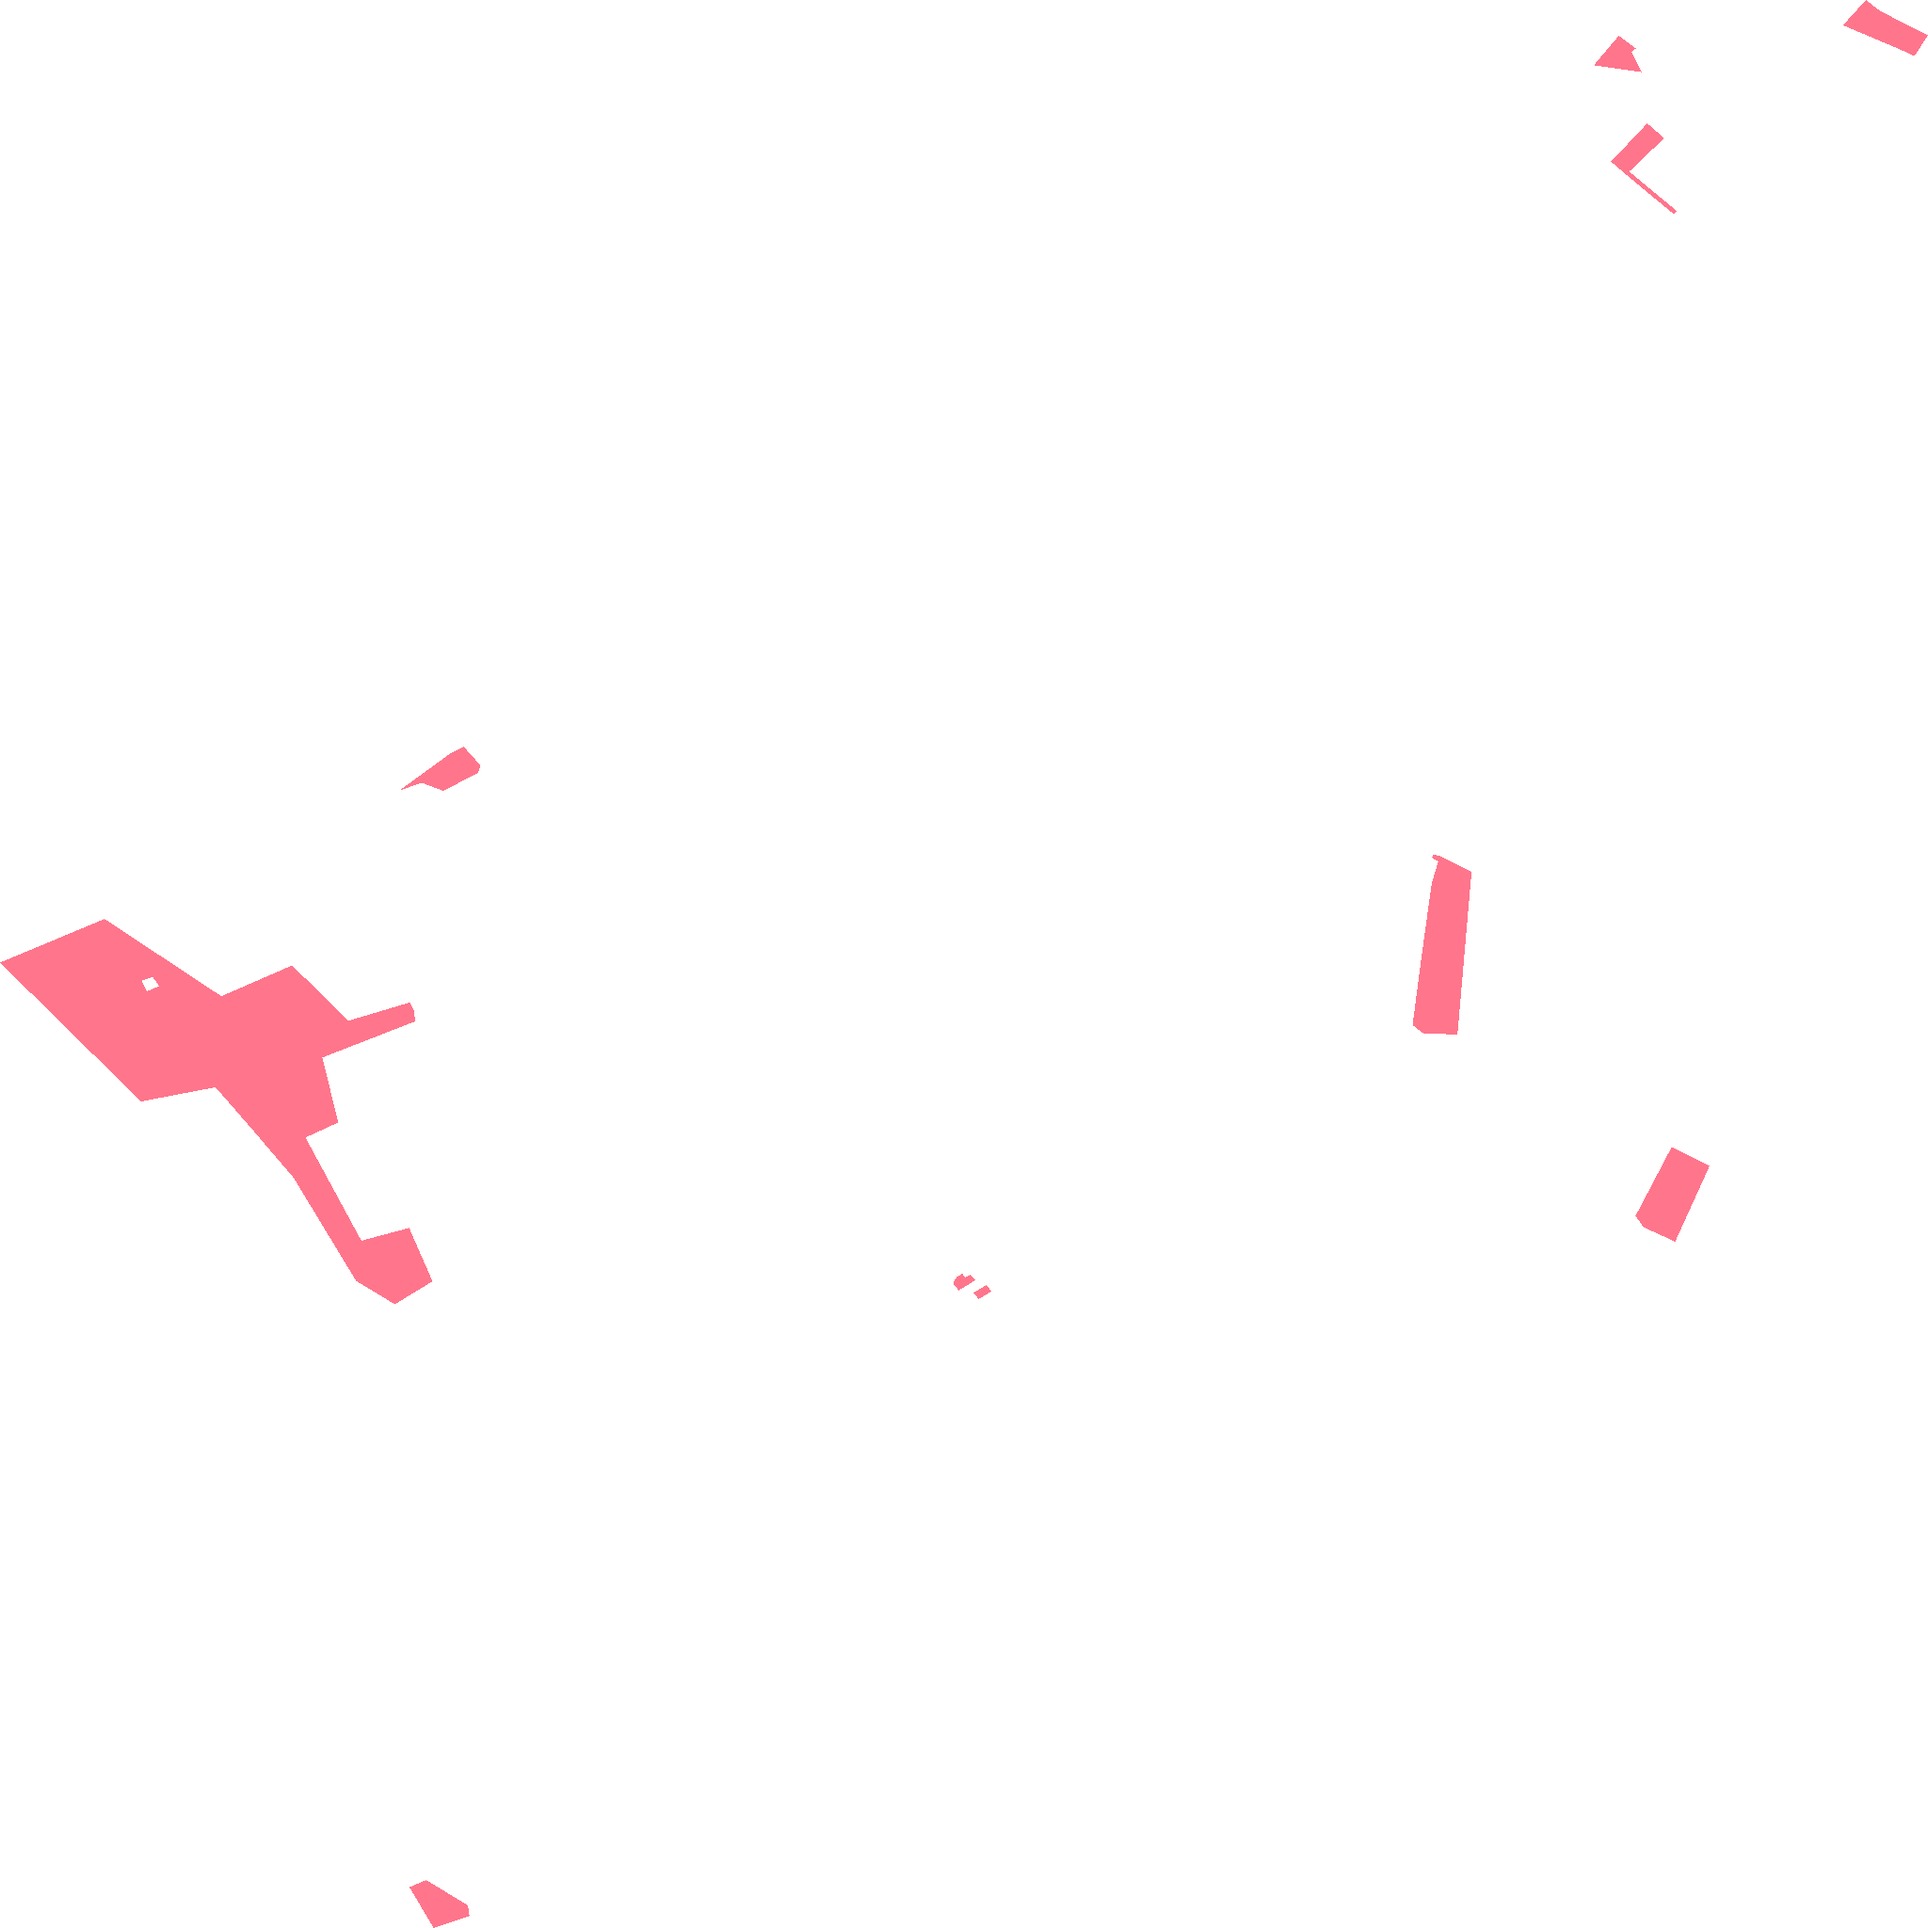
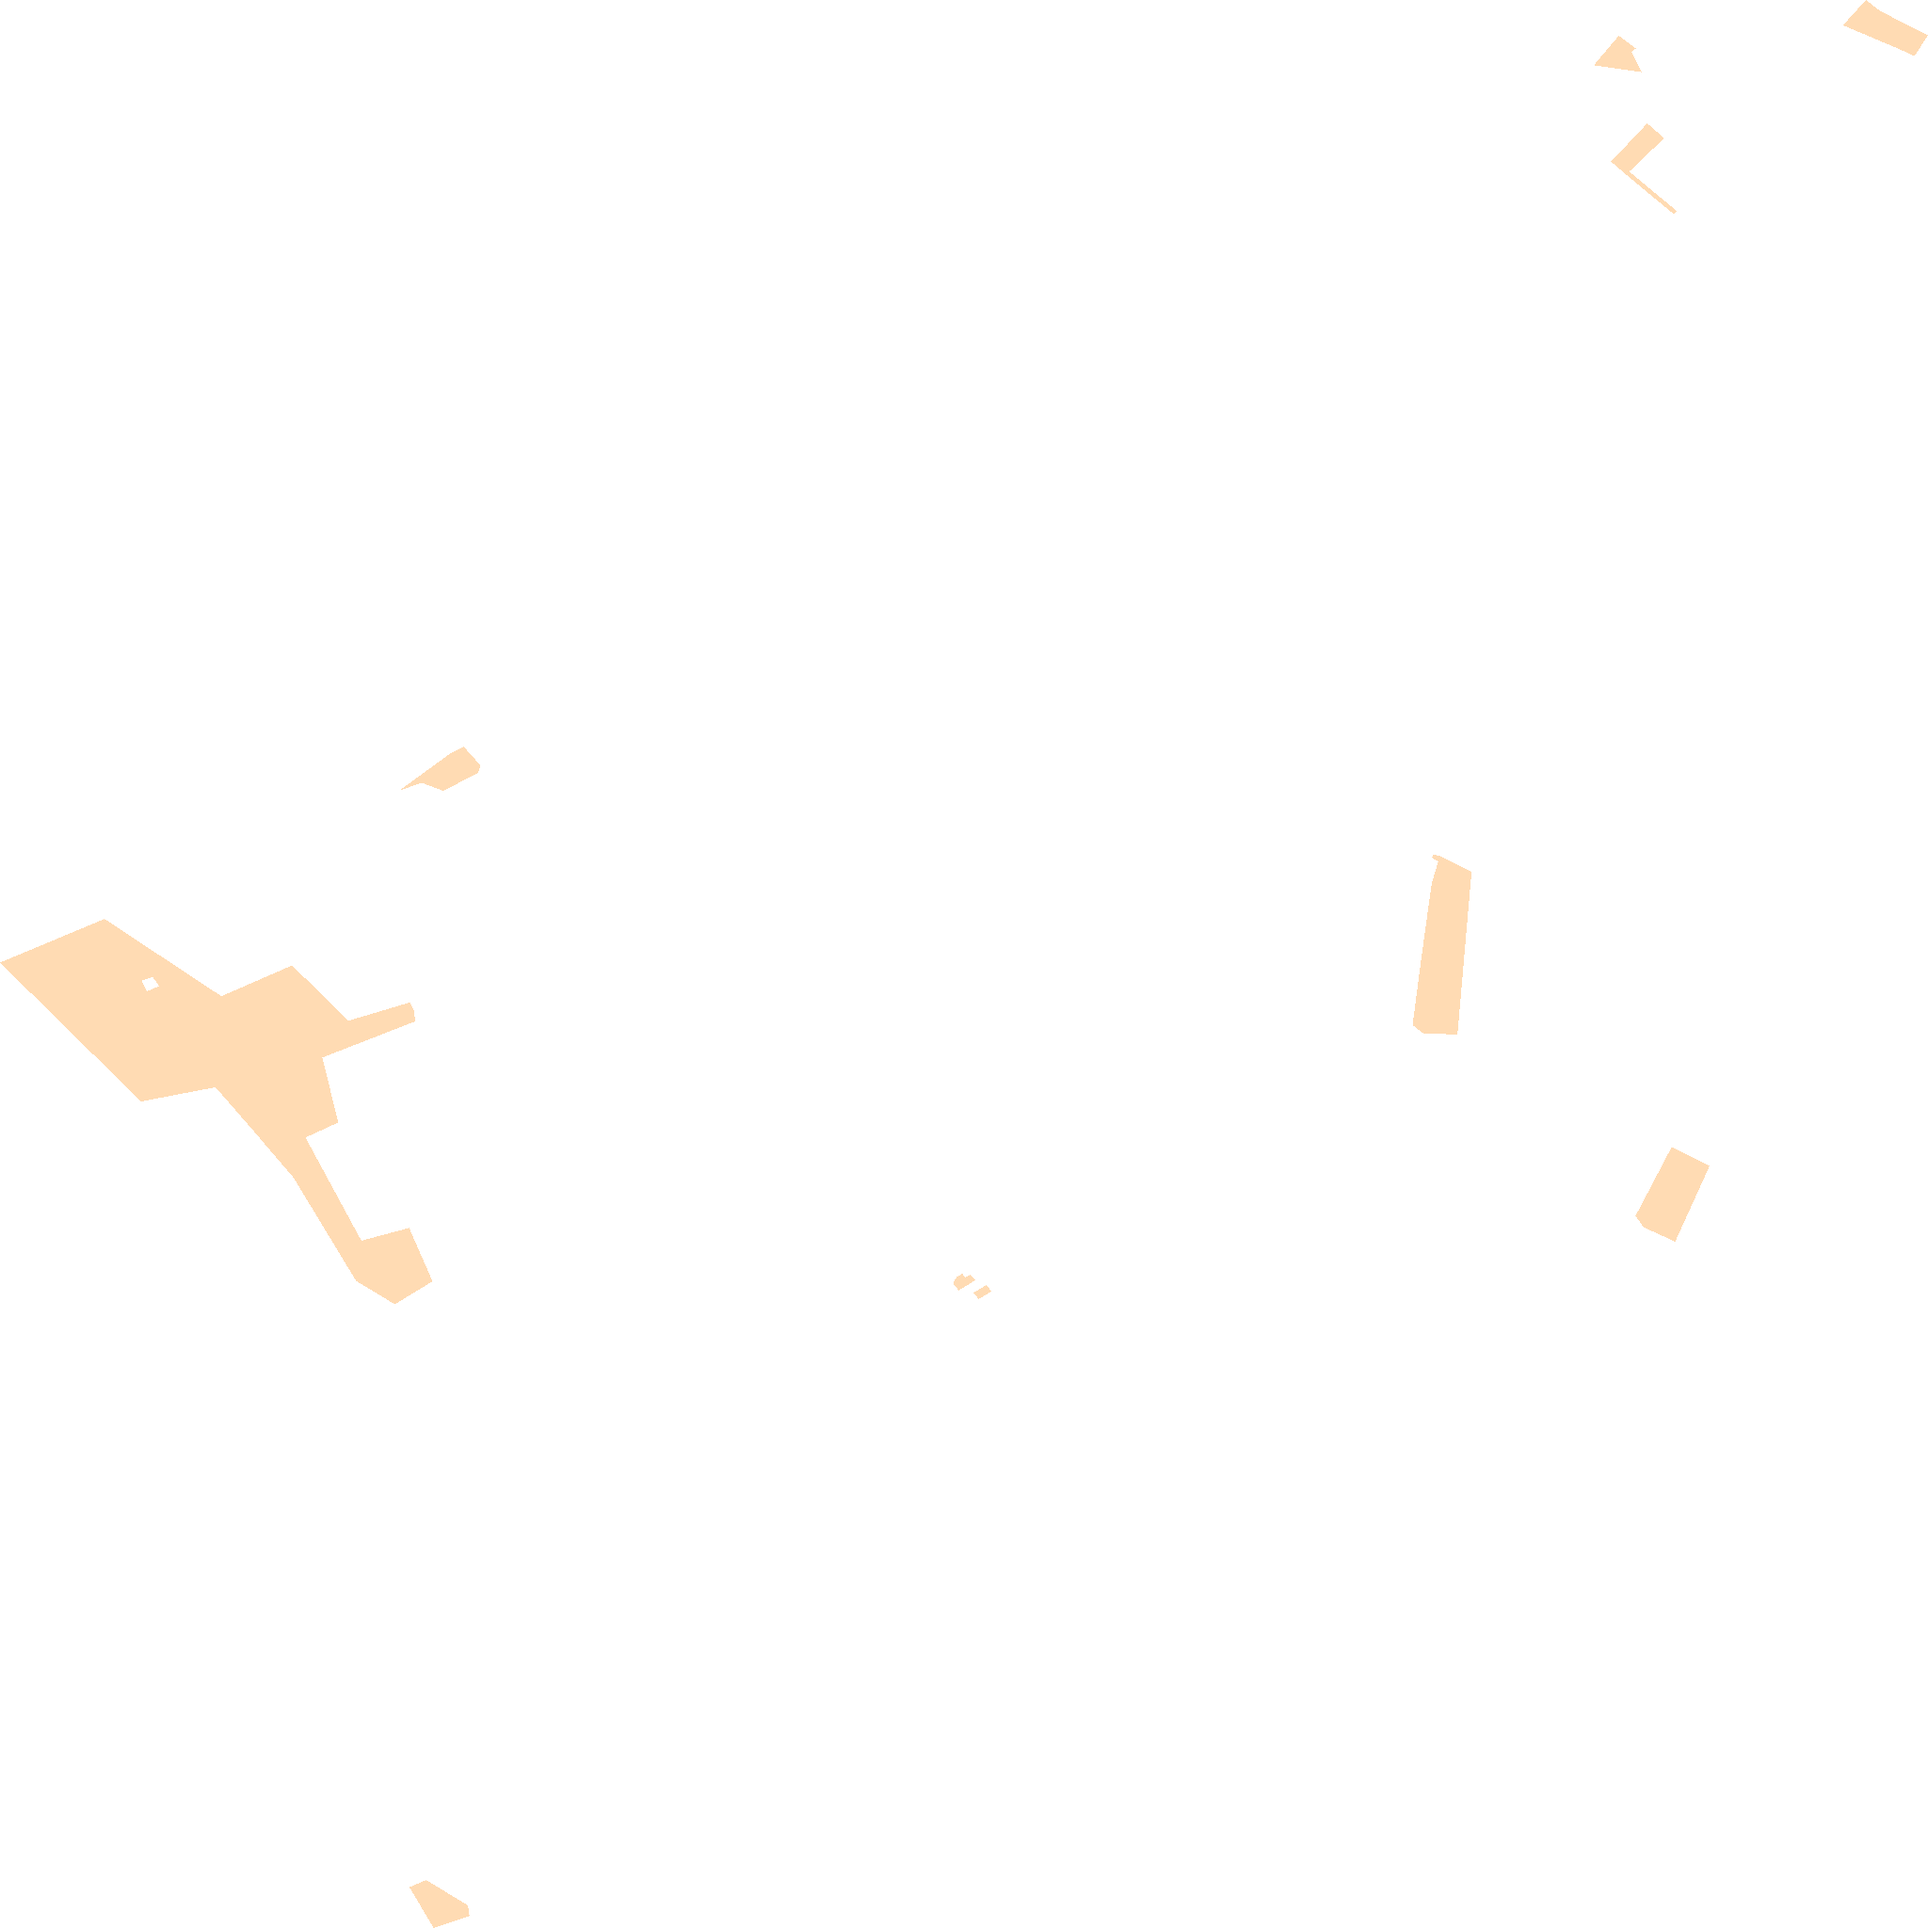
Karte p_617

diff --git a/p_617.html b/p_617.html
@@ -128,8 +128,9 @@
 <body>
     <div id="map"></div>
     <div id="legend">
-        <div><span style="display:inline-block; width:20px; height:10px; background:#FF7F00; margin-right:5px;"></span>Ausbauphase 1: Ausbau bei ausreichender Nachfrage</div>
+        <div><span style="display:inline-block; width:20px; height:10px; background:#FF7F00; margin-right:5px;"></span>Ausbauphase 1: Glasfasernetz vorhanden oder geplant</div>
         <div><span style="display:inline-block;width:20px; height:10px; background:#00143C; margin-right:5px;"></span>Ausbauphase 2: Interessenbekundung möglich</div>
+        <div><span style="display:inline-block;width:20px; height:10px; background:#FFC17D; margin-right:5px;"></span>Ausbauphase 3: Gefördertes Ausbaugebiet </div>
     </div>
     <script>
     const bounds = [[50.006320807, 8.386684592], [50.051057078, 8.4509914]];
